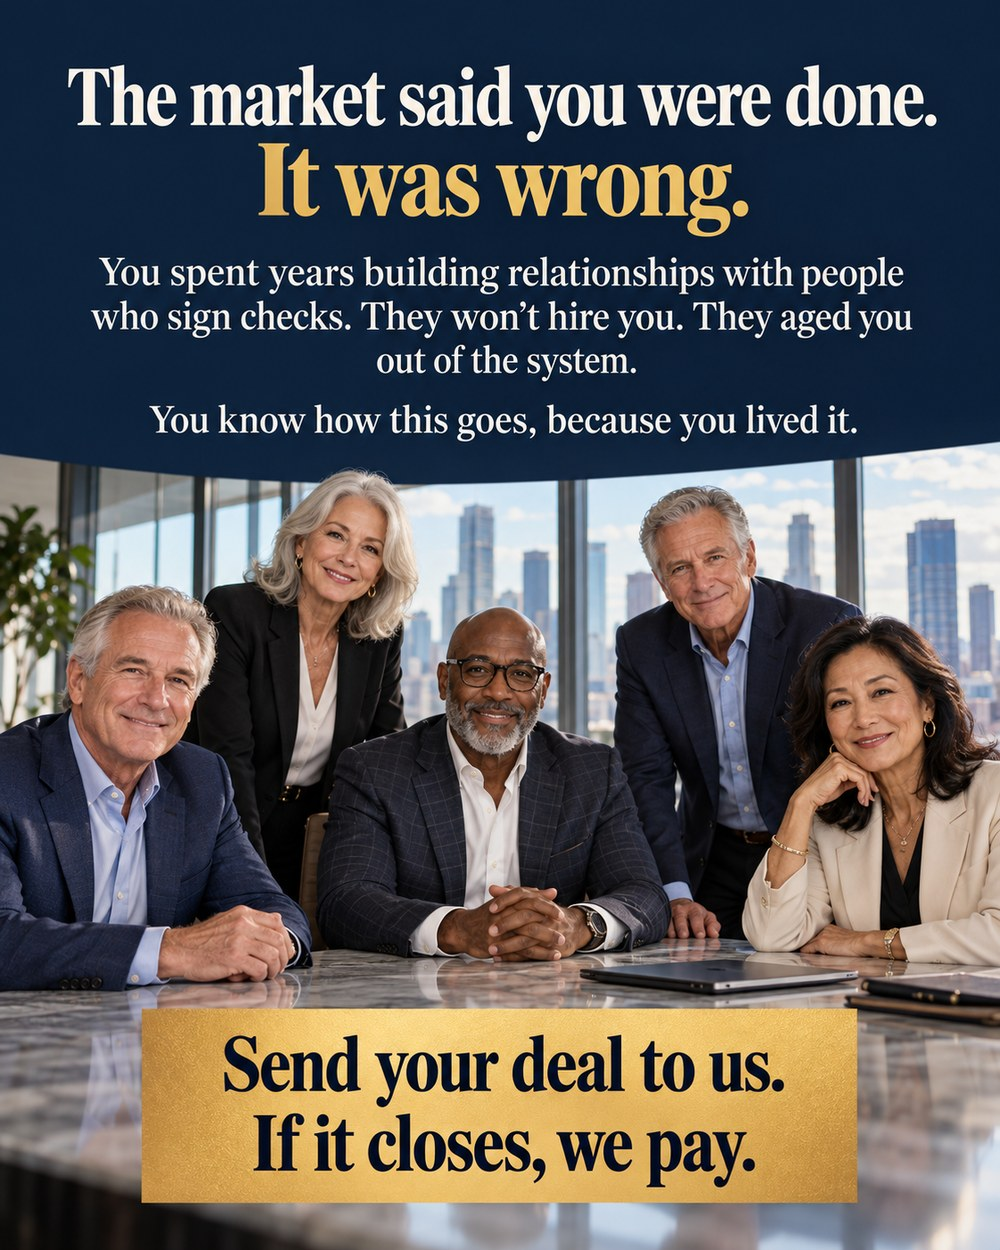
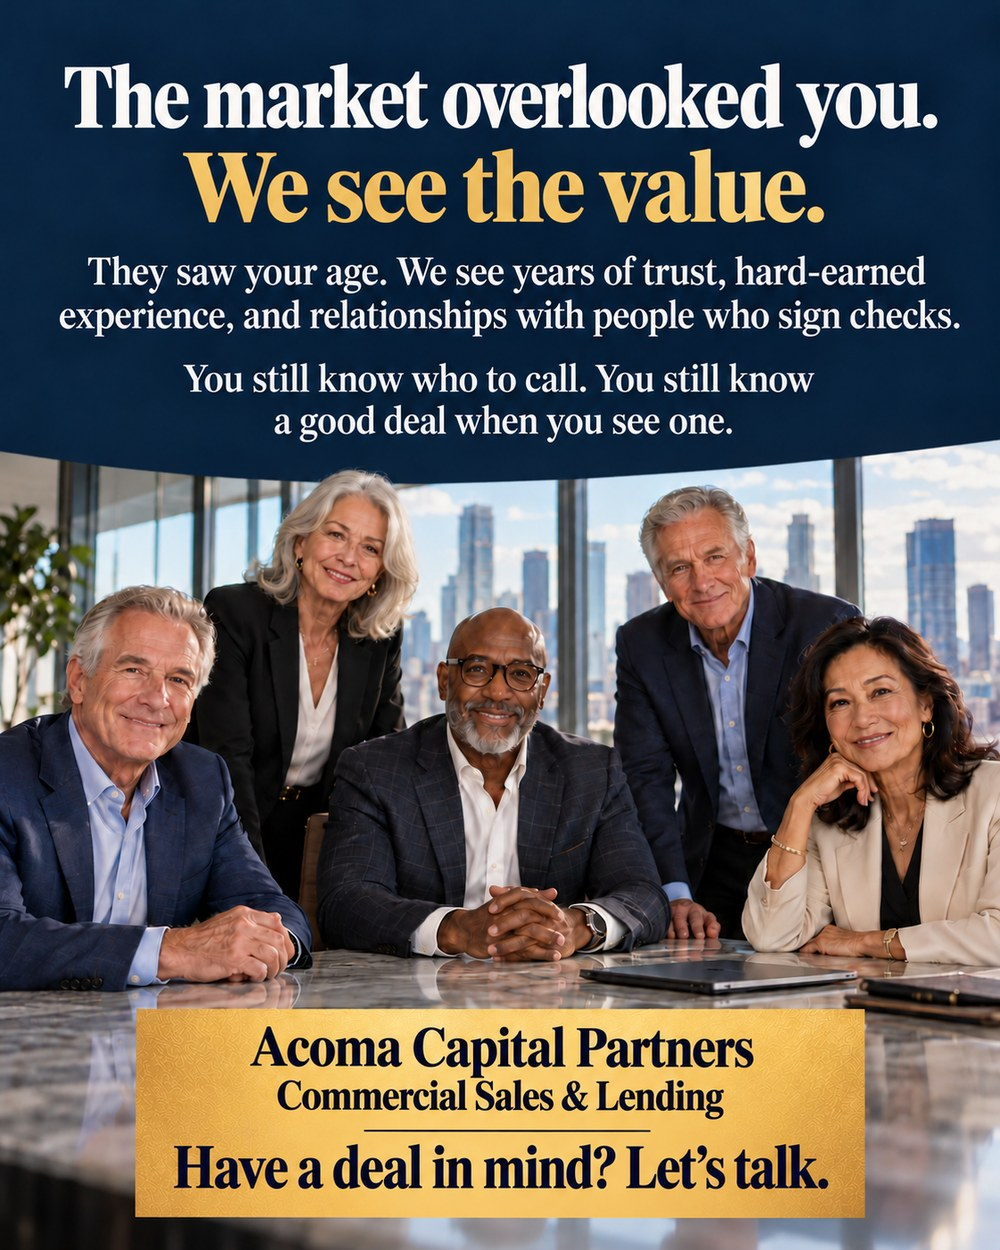
Swap in new Work With Us hero image; update alt/headings/OG to new wording

diff --git a/app/partners/page.jsx b/app/partners/page.jsx
@@ -2,12 +2,12 @@
 import { bpStyles, BrokerNav, BrokerFooter, JsonLd, CAL, FORM, EMAIL } from '../broker-programs/shared'
 
 export const metadata = {
-  title: 'Send Us Deals | For Experienced Brokers & Professionals | Acoma Capital Partners',
-  description: 'The market said you were done. It was wrong. If you know a business that needs capital, a commercial property, or a home seller, send us the deal. If it closes, you get paid.',
+  title: 'Work With Us | For Experienced Brokers & Professionals | Acoma Capital Partners',
+  description: 'The market overlooked you. We see the value. If you know a business that needs capital, a commercial property, or a home seller, send us the deal. If it closes, you get paid.',
   alternates: { canonical: 'https://www.acomacapitalpartners.com/partners' },
   openGraph: {
-    title: 'The market said you were done. It was wrong. | Acoma Capital Partners',
-    description: 'Send us a deal. If it closes, we pay. For the experienced broker or professional the job market cast aside.',
+    title: 'The market overlooked you. We see the value. | Acoma Capital Partners',
+    description: 'They saw your age. We see years of trust and relationships. Have a deal in mind? Let us talk.',
     url: 'https://www.acomacapitalpartners.com/partners',
     images: ['/partners-hero.jpg'],
   },
@@ -80,10 +80,10 @@ export default function Partners() {
       {/* HERO — approved composed image on matching navy field */}
       <section className="pp-hero">
         <h1 style={{ position: 'absolute', width: 1, height: 1, padding: 0, margin: -1, overflow: 'hidden', clip: 'rect(0,0,0,0)', whiteSpace: 'nowrap', border: 0 }}>
-          The market said you were done. It was wrong. Send us a deal, and if it closes, we pay.
+          The market overlooked you. We see the value. Acoma Capital Partners, commercial sales and lending. Have a deal in mind? Let us talk.
         </h1>
         <div className="pp-hero-img-wrap">
-          <img src="/partners-hero.jpg" alt="Experienced brokers and professionals around a conference table. The market said you were done. It was wrong. Send your deal to us. If it closes, we pay." />
+          <img src="/partners-hero.jpg" alt="Five seasoned brokers and professionals at a conference table. The market overlooked you. We see the value. They saw your age; we see years of trust, experience, and relationships with people who sign checks. Have a deal in mind? Let's talk." />
         </div>
         <div className="bp-wrap pp-hero-cta">
           <div className="bp-cta-row">

diff --git a/app/page.tsx b/app/page.tsx
@@ -424,11 +424,11 @@ export default function Home() {
           <FadeUp>
             <div style={{ display: "flex", flexDirection: "column", alignItems: "center", textAlign: "center" }}>
               <p style={{ fontFamily: P, fontWeight: 700, fontSize: 12, letterSpacing: "0.22em", textTransform: "uppercase", color: "rgba(255,255,255,0.5)", marginBottom: 32 }}>For Brokers &amp; Professionals</p>
-              <a href="/partners" style={{ display: "block", maxWidth: 440, width: "100%" }} aria-label="Acoma partners program — the market said you were done, it was wrong">
-                <img src="/partners-hero.jpg" alt="Experienced brokers and professionals. The market said you were done. It was wrong. Send your deal to us. If it closes, we pay." style={{ width: "100%", height: "auto", display: "block" }} />
+              <a href="/partners" style={{ display: "block", maxWidth: 440, width: "100%" }} aria-label="Work with Acoma — the market overlooked you, we see the value">
+                <img src="/partners-hero.jpg" alt="Five seasoned brokers and professionals at a conference table. The market overlooked you. We see the value. Have a deal in mind? Let's talk." style={{ width: "100%", height: "auto", display: "block" }} />
               </a>
               <p style={{ fontFamily: I, fontSize: 18, lineHeight: 1.75, color: "rgba(255,255,255,0.82)", maxWidth: 620, margin: "36px 0 32px" }}>
-                You spent years building relationships with people who sign checks. If you have a deal that fits, work it with us or refer it over. Either way, you get paid when it closes.
+                They saw your age. We see years of trust, hard-earned experience, and relationships with people who sign checks. If you have a deal that fits, work it with us or refer it over. Either way, you get paid when it closes.
               </p>
               <a href="/partners" style={{ fontFamily: P, fontWeight: 700, fontSize: 12, letterSpacing: "0.14em", textTransform: "uppercase", background: YELLOW, color: NAVY, padding: "18px 44px", textDecoration: "none" }}>
                 Read Their Story →
